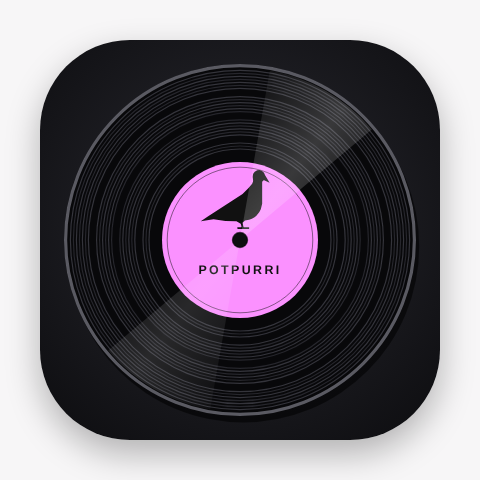
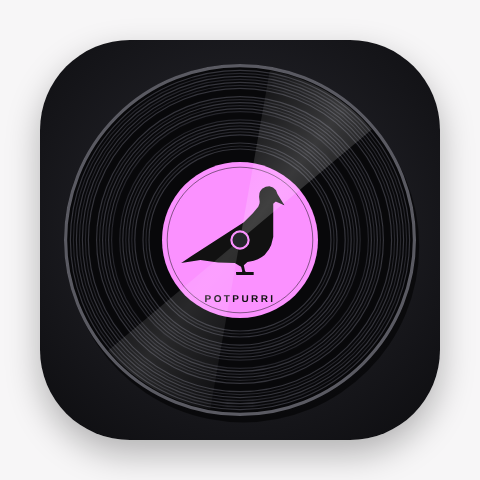
Appikon: duvan centrerad över mitthålet
Claude-Session: https://claude.ai/code/session_015cr8yPY2L3nmkkP8EYtECh

Changed region(s): [[0.375, 0.3438, 0.5938, 0.625]]

diff --git a/PLAN.md b/PLAN.md
@@ -157,7 +157,7 @@ vilka låtar som passar efter, eller som medley.
   I mörkt läge: svart/mörkgrå bakgrund med rosa accent (påminner om scenljus).
 - **Logga:** svart duva i profil i en cirkel med texten
   "TRUBADUR | BAND | QUIZ | KONFERENCIER" (`design/duva-logo.png`).
-- **Ikon:** svart LP med spår, ljusreflex och tydlig kant mot mörk bakgrund; rosa etikett (`#FB91FF`) med duvan, texten POTPURRI och ett klassiskt mitthål (`design/potpurri-lp.svg`, animerad: `design/potpurri-lp.gif`).
+- **Ikon:** svart LP med spår, ljusreflex och tydlig kant mot mörk bakgrund; rosa etikett (`#FB91FF`) med duvan centrerad över mitthålet (hålet syns genom duvan) och texten POTPURRI nedtill (`design/potpurri-lp.svg`, animerad: `design/potpurri-lp.gif`).
 - Menyer/bibliotek: följer iPaden, eller väljs ljust/mörkt i appen. Låtar har eget mörkt läge.
 - **Vänsterspalt (liggande):** kan döljas med ett tryck och ändras i bredd.
   Innehåll uppifrån: flikar Bibliotek/Låtlistor → sökfält → låtlista → förslagsruta → "Ny spelning".
